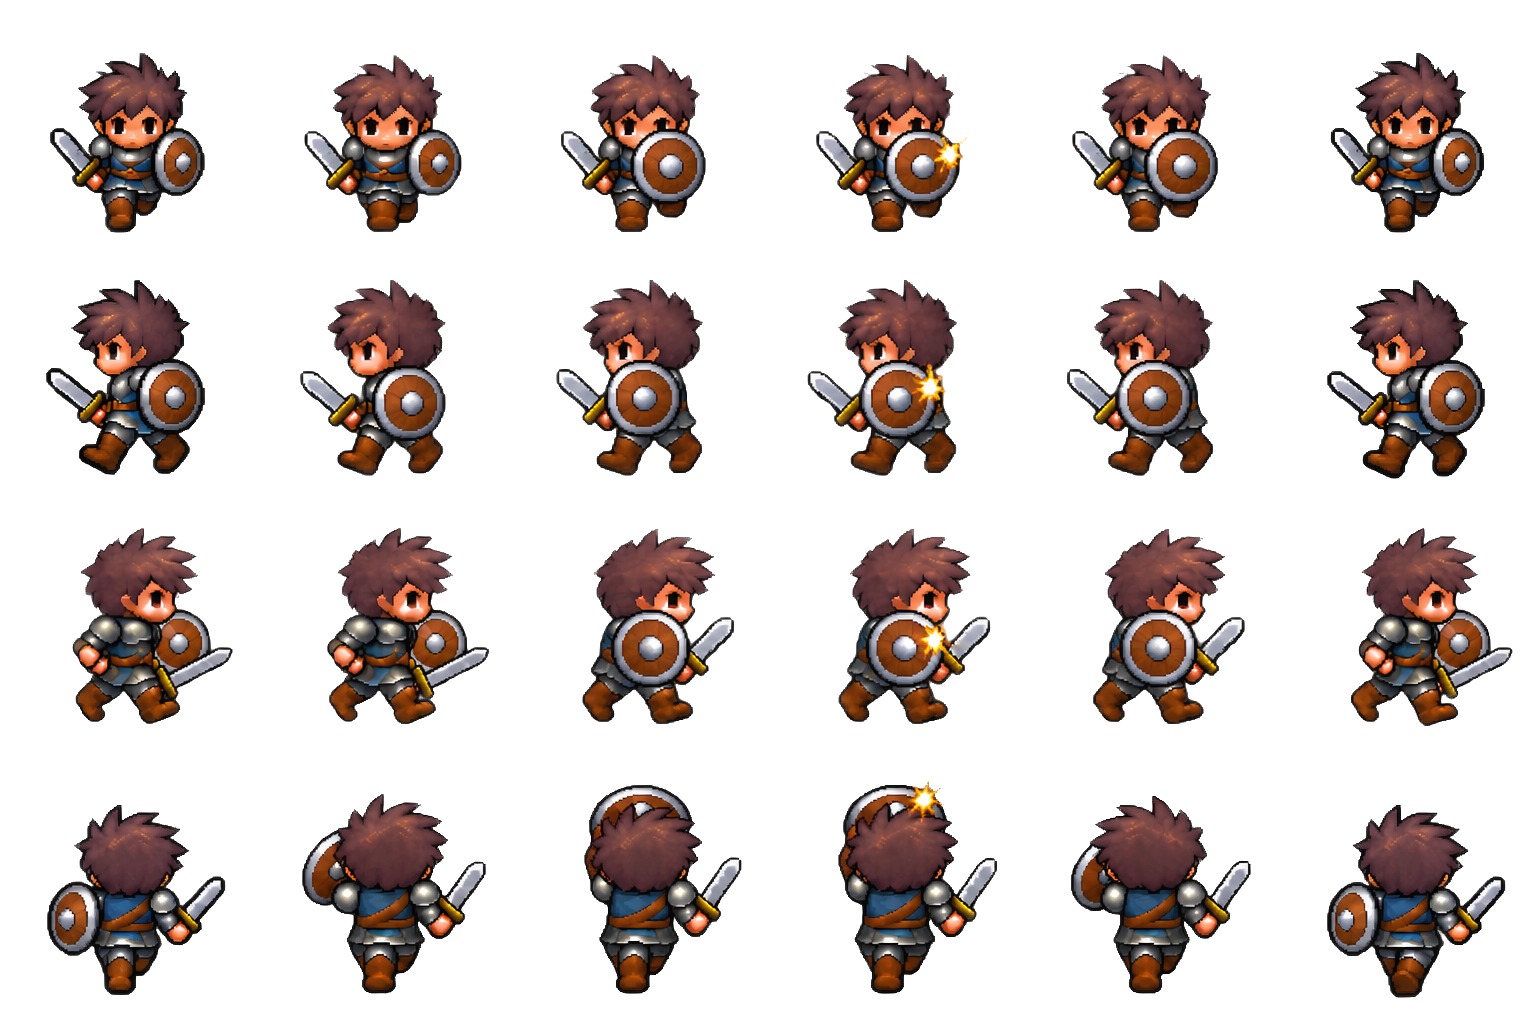
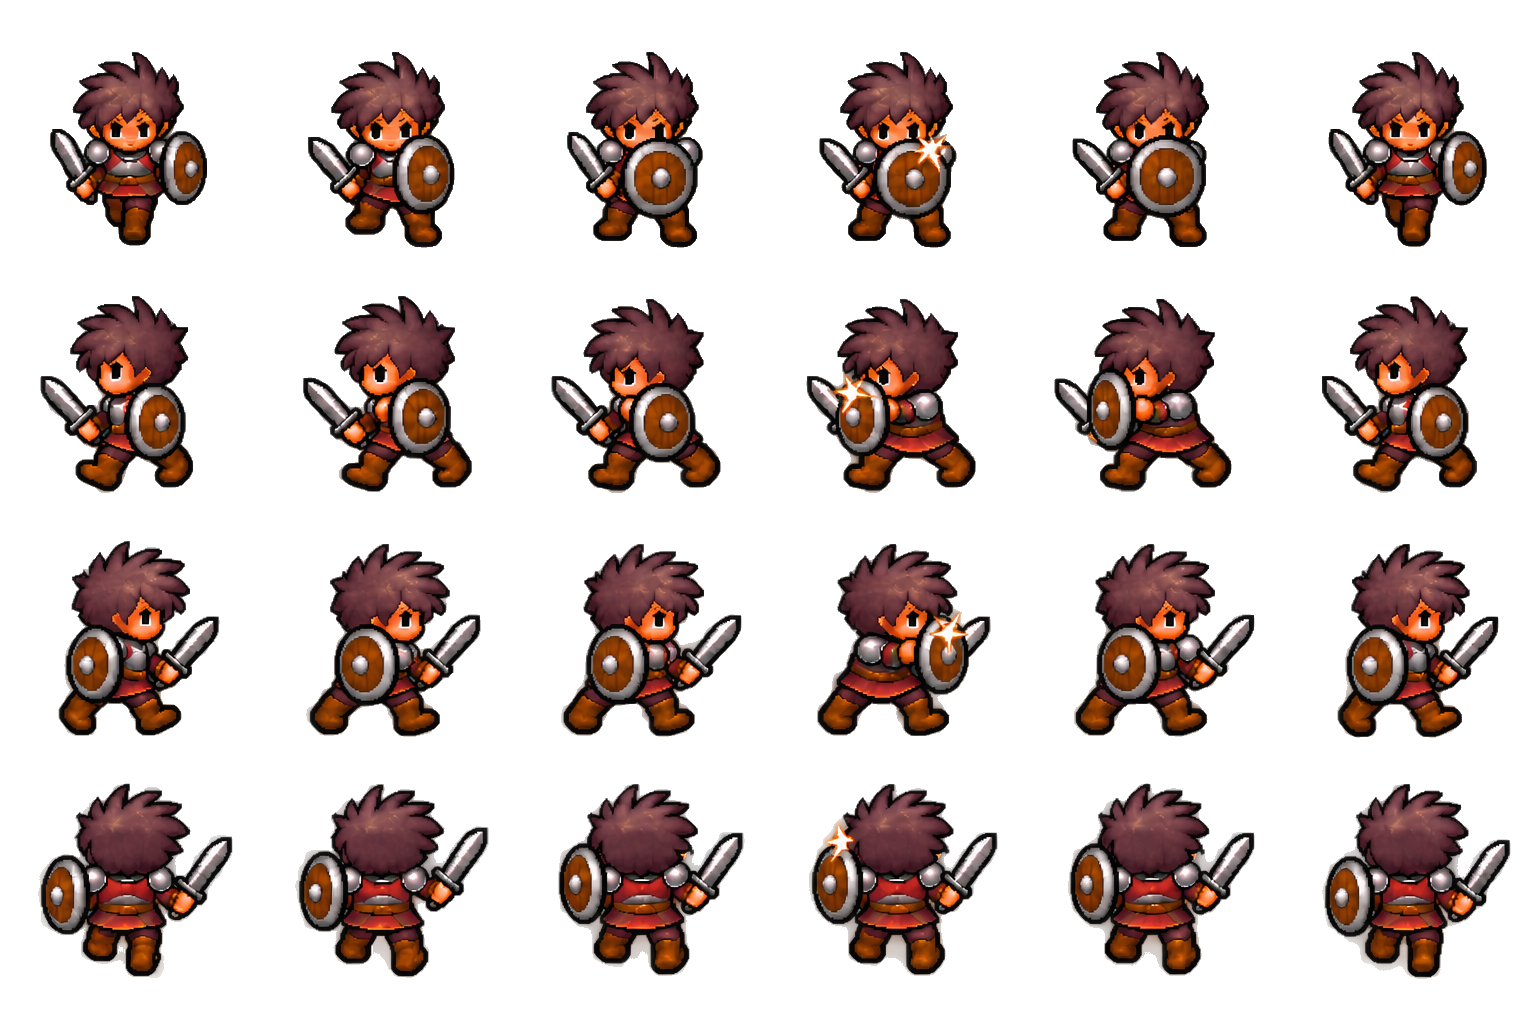
feat: replace warrior animation set

diff --git a/src/game/player/warriorAnimations.ts b/src/game/player/warriorAnimations.ts
@@ -8,10 +8,10 @@ export const WARRIOR_TEXTURE_KEYS = {
 
 export const WARRIOR_SPRITE = {
   frameSize: 256,
-  scale: 0.25,
-  bodyRadius: 70,
-  bodyOffsetX: 58,
-  bodyOffsetY: 95,
+  scale: 0.275,
+  bodyRadius: 64,
+  bodyOffsetX: 64,
+  bodyOffsetY: 98,
 } as const;
 
 const WARRIOR_FACINGS = ['right', 'left', 'down', 'up'] as const;
@@ -35,10 +35,10 @@ const ATTACK_FRAME_RANGES: Readonly<Record<WarriorFacing, readonly [number, numb
 const BLOCK_FRAME_RANGES: Readonly<
   Record<WarriorFacing, readonly [number, number]>
 > = {
-  right: [12, 14],
-  left: [6, 8],
-  down: [0, 2],
-  up: [18, 20],
+  right: [12, 15],
+  left: [6, 9],
+  down: [0, 3],
+  up: [18, 21],
 };
 
 export function getWarriorWalkAnimationKey(facing: WarriorFacing): string {

diff --git a/src/game/config/playerClasses.ts b/src/game/config/playerClasses.ts
@@ -7,7 +7,7 @@ export const PLAYER_CLASSES: Readonly<Record<PlayerClass, PlayerClassDefinition>
     label: 'Guerreiro',
     fantasy: 'Resistente e implacável no combate próximo.',
     portraitAssetPath: '/assets/characters/warrior/Warrior_Shield_Walk.png',
-    portraitScale: 0.8,
+    portraitScale: 0.88,
     color: 0x4d8dff,
     cssColor: '#4d8dff',
     baseStats: {

diff --git a/public/assets/characters/warrior/ASSET_NOTES.md b/public/assets/characters/warrior/ASSET_NOTES.md
@@ -1,31 +1,28 @@
 # Guerreiro com espada e escudo
 
-Sprites direcionais refeitos para manter a mesma linguagem visual e proporção do
-arqueiro e do goblin do projeto. Existe exatamente uma espada na mão direita e
-um escudo na mão esquerda em todos os estados e quadros.
+Sprites direcionais fornecidos no pacote `warrior_spritesheets(1).zip` e
+normalizados para o contrato visual do projeto. Existe exatamente uma espada na
+mão direita e um escudo na mão esquerda em todos os estados e quadros.
 
 - `Warrior_Shield_Walk.png`: caminhada com os dois itens empunhados, 6 quadros
   por direção
 - `Warrior_Shield_Attack.png`: ataque somente com a espada e escudo mantido na
   guarda, 6 quadros por direção
-- `Warrior_Shield_Block.png`: o mesmo e único escudo sai da guarda lateral,
-  avança para a frente, bloqueia e retorna; a espada permanece na outra mão,
-  6 quadros por direção
+- `Warrior_Shield_Block.png`: o mesmo e único escudo avança para a guarda,
+  recebe o impacto e retorna; a espada permanece na outra mão, 6 quadros por
+  direção
 
-Na direção para cima, a frente do personagem corresponde ao topo da tela. Por
-isso, durante o bloqueio, o escudo avança acima da cabeça em vez de aparecer
-nas costas; a espada continua empunhada na mão direita.
-
-Na caminhada para a direita, a espada fica à frente do personagem, no lado
-direito da imagem, enquanto o escudo permanece na mão esquerda, visível no lado
-oposto do corpo.
+Enquanto a defesa está pressionada, a animação avança até o quarto quadro e
+mantém a pose de impacto. Ao soltar a defesa, o personagem retorna para a
+animação de caminhada ou para o quadro parado da direção atual.
 
 Cada arquivo possui grade `6 x 4`, células de `256 x 256` e linhas na ordem:
 baixo, esquerda, direita e cima.
 
-Os três arquivos usam fundo RGBA transparente e margem segura por célula para
-evitar cortes e vazamento visual entre frames.
+Os três arquivos usam fundo RGBA transparente. Resíduos translúcidos foram
+removidos e os quadros com golpes amplos foram reposicionados ou reduzidos para
+garantir margem segura, evitando cortes e vazamento entre células.
 
-Os sprites foram gerados com ImageGen usando como referência o guerreiro nível 3
-da CraftPix e o arqueiro existente. Os arquivos originais e sua licença continuam
-nesta pasta como referência de origem visual.
+A escala visual foi ajustada para `0.275`. O corpo físico foi recalibrado para
+manter aproximadamente o mesmo raio de colisão do guerreiro anterior, sem mudar
+vida, dano, alcance, velocidade ou regras da habilidade de bloqueio.
